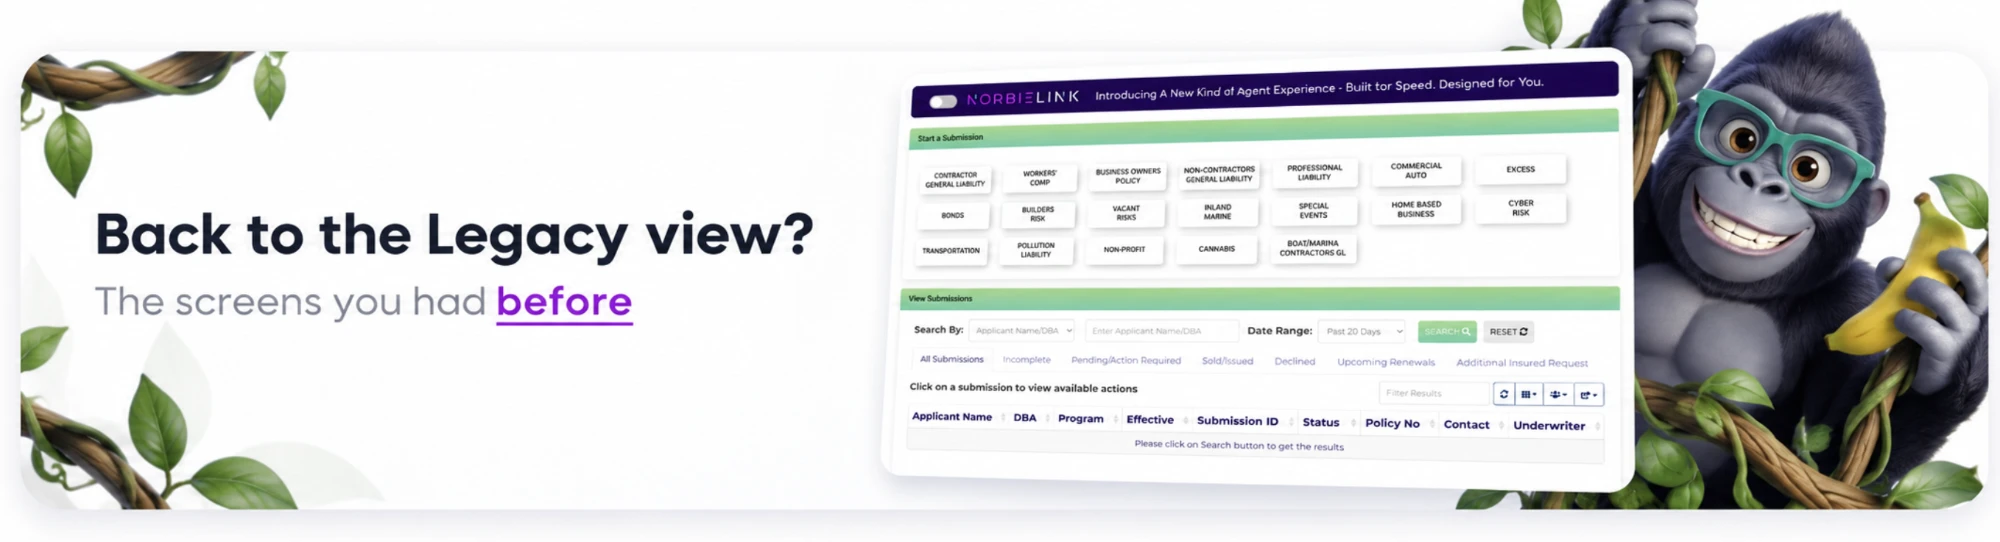
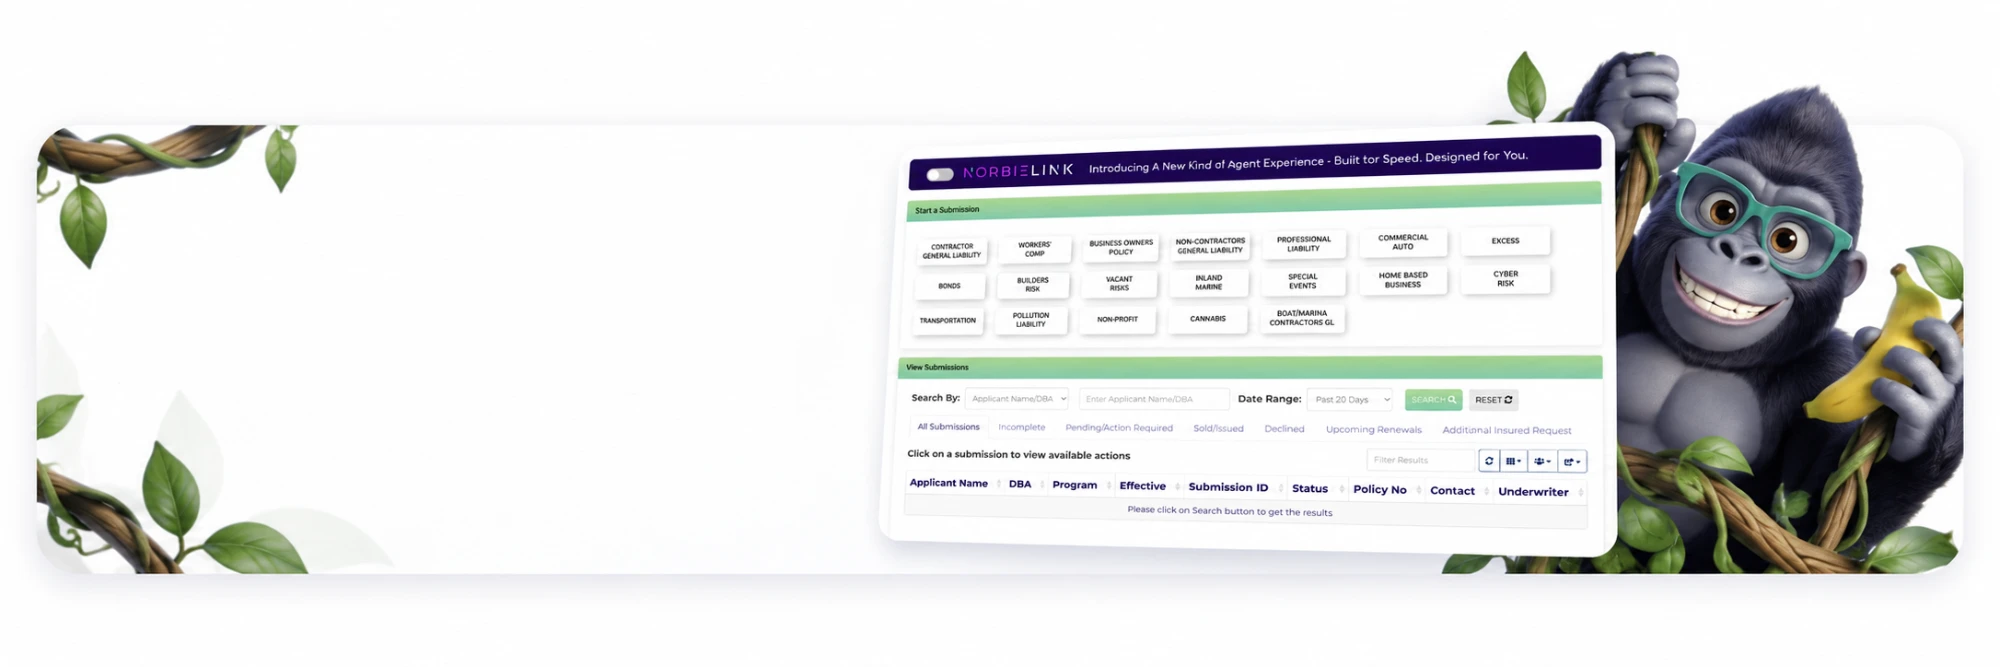
The new artwork, with the words set over it
Both pictures leave their left side clear, so the headings go back to
being real text in that space rather than pixels baked into the image —
they stay crisp at any size, they are selectable, and a screen reader
gets them. The span stops at 42% of the width, which is where each
picture's clear part ends.

Same source dimensions this time, so both halves come out 200px and the
row has no seam.

diff --git a/src/pages/application/Submitted.jsx b/src/pages/application/Submitted.jsx
@@ -27,9 +27,11 @@ import {
 const NORBIELINK_URL = 'https://norbielink.btisinc.com/'
 const LEGACY_URL = 'https://my.btisinc.com/submissionslegacy'
 
-// Each way out is one supplied artwork — vines, the line, and a look at the
-// screen it leads to. Text and all, so there is nothing to lay over them.
-const EXIT_HALF = 'block w-full transition hover:opacity-90 cursor-pointer'
+// Each way out is one supplied artwork — vines and a look at the screen it
+// leads to — with its words set over the clear half on the left, so they
+// stay real text rather than pixels.
+const EXIT_HALF = 'relative block w-full text-left transition hover:opacity-90 cursor-pointer'
+const EXIT_WORDS = 'absolute inset-y-0 left-0 w-[42%] flex flex-col justify-center px-5 md:px-7'
 
 const labelOf = (options, value) => options.find(o => o.value === value)?.label ?? ''
 const codeLabel = (code) => CLASS_CODES.find(c => c.code === code)?.label ?? code
@@ -356,16 +358,25 @@ export default function Submitted({ submissionNumber, quote, amount, form = {}, 
         </div>
       </div>
 
-      {/* Two ways out, each its own artwork: the marketplace on the left and
-          the screens the agent had before on the right, both showing where
-          they land. White behind them, so the half with the shorter image
-          fills rather than showing a seam. */}
+      {/* Two ways out, each its own artwork showing where it lands: the
+          marketplace on the left, the legacy submissions list on the right.
+          Both pictures leave their left side clear, which is where the words
+          go. White behind the row so nothing shows through the gap. */}
       <div
         className="screen-only rounded-2xl overflow-hidden mb-8 grid grid-cols-1 sm:grid-cols-2"
         style={{ background: '#ffffff' }}
       >
         <button type="button" onClick={() => leave(NORBIELINK_URL)} className={EXIT_HALF}>
-          <img src={exitMarketplace} alt="Return to the Marketplace — head back to Norbielink" className="w-full block" />
+          <img src={exitMarketplace} alt="" className="w-full block" />
+          <span className={EXIT_WORDS}>
+            <span className="block text-sm md:text-lg font-bold leading-snug mb-1" style={{ color: '#111827' }}>
+              Return to the Marketplace?
+            </span>
+            <span className="block text-[11px] md:text-xs text-gray-500">
+              Head back to{' '}
+              <span className="font-semibold text-gradient underline underline-offset-2">Norbielink</span>
+            </span>
+          </span>
         </button>
         <button
           type="button"
@@ -373,7 +384,16 @@ export default function Submitted({ submissionNumber, quote, amount, form = {}, 
           className={EXIT_HALF}
           style={{ borderLeft: '1px solid rgba(17,24,39,0.08)' }}
         >
-          <img src={exitLegacy} alt="Back to the Legacy view — the screens you had before" className="w-full block" />
+          <img src={exitLegacy} alt="" className="w-full block" />
+          <span className={EXIT_WORDS}>
+            <span className="block text-sm md:text-lg font-bold leading-snug mb-1" style={{ color: '#111827' }}>
+              Back to the Legacy view?
+            </span>
+            <span className="block text-[11px] md:text-xs text-gray-500">
+              The screens you had{' '}
+              <span className="font-semibold text-gradient underline underline-offset-2">before</span>
+            </span>
+          </span>
         </button>
       </div>
     </div>
